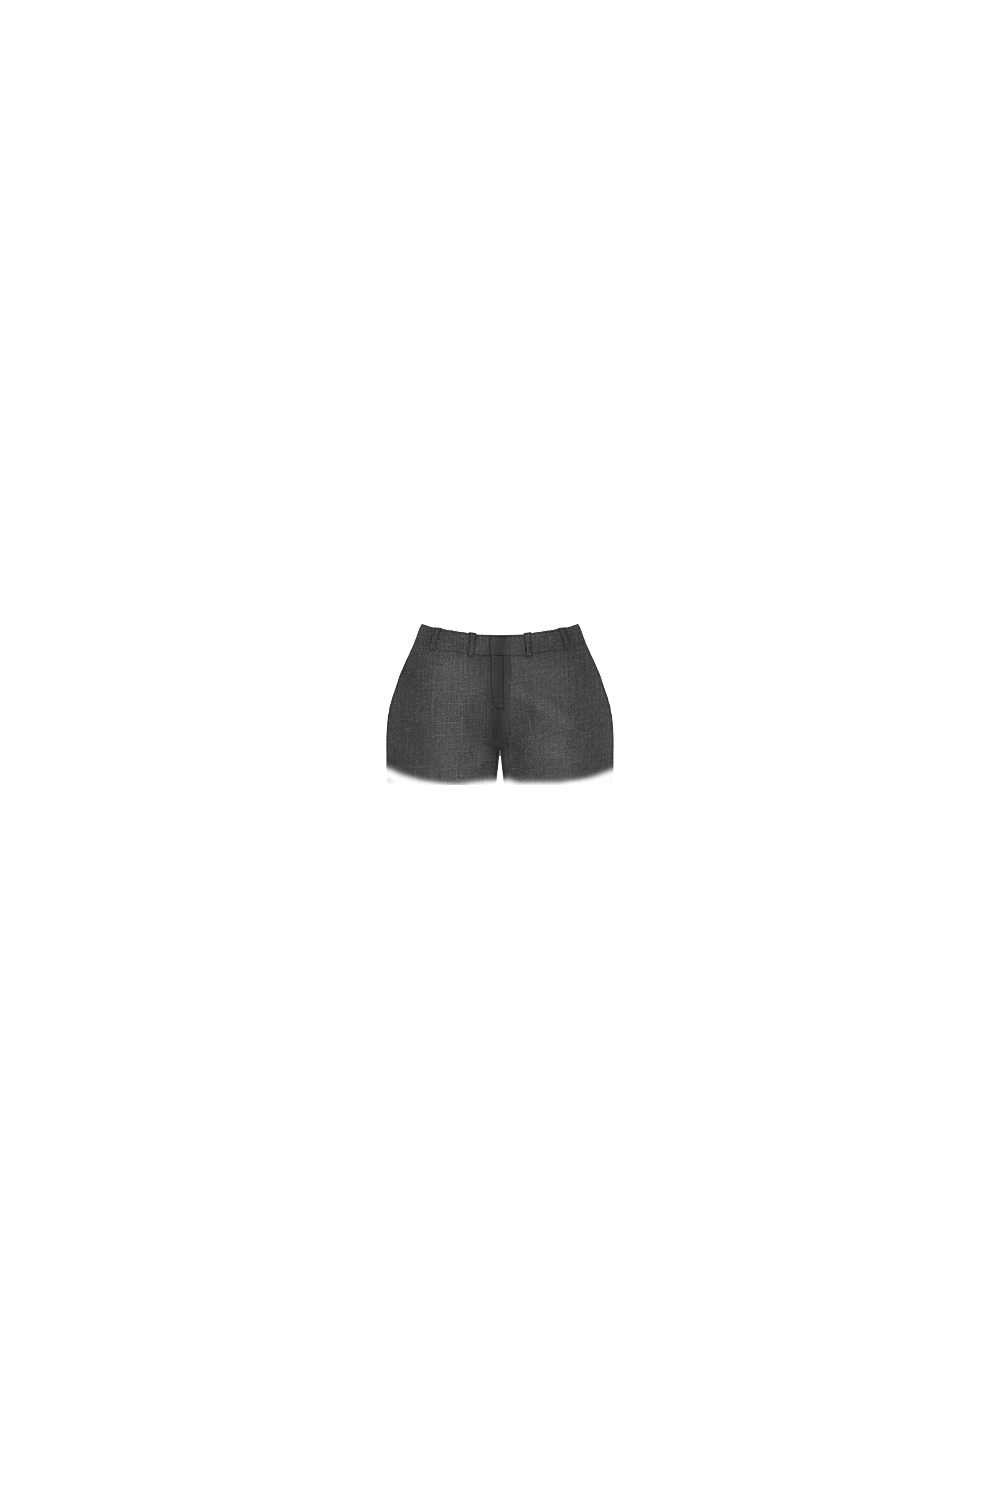
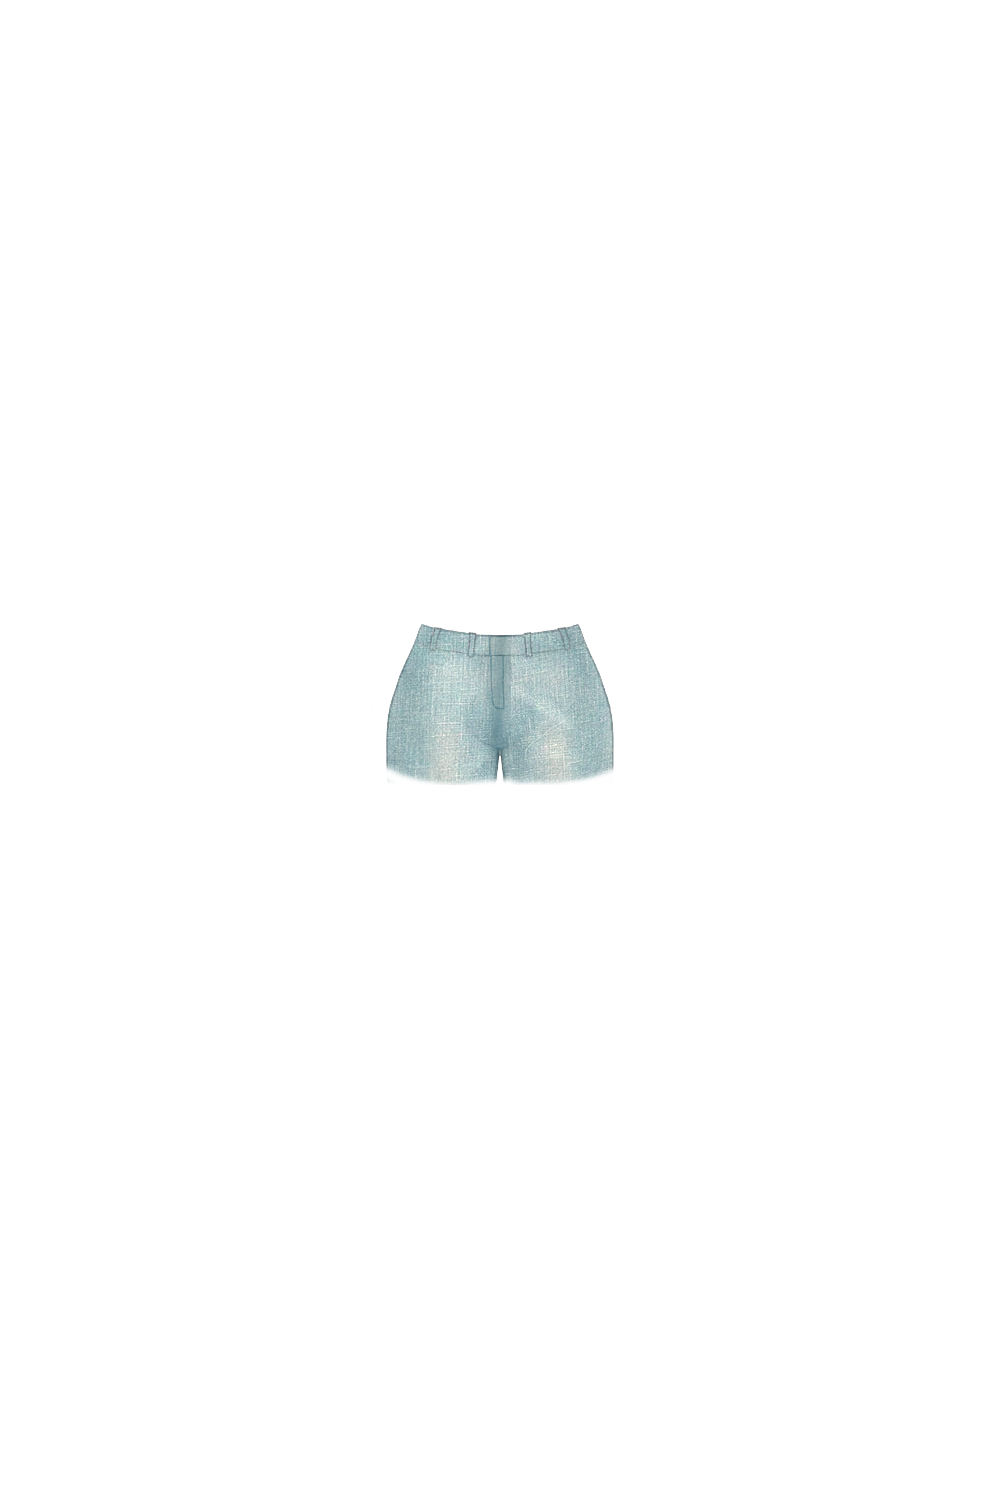
[ADD] jeans Shorts graphics

Changed region(s): [[0.372, 0.3987, 0.62, 0.5213]]

diff --git a/src/assets/bottoms/jeans_shorts/jeans_shorts.asset.ts b/src/assets/bottoms/jeans_shorts/jeans_shorts.asset.ts
@@ -1,11 +1,12 @@
 import { DefineAsset } from '../../../tools';
 
 DefineAsset({
-	name: 'Jeans Shorts (tutorial asset)',
+	name: 'Jeans Shorts',
+	graphics: 'graphics.json',
 	colorization: [
 		{
 			name: 'Pants',
-			default: '#ffffff',
+			default: '#7396B3',
 		},
 		{
 			name: 'Button',
